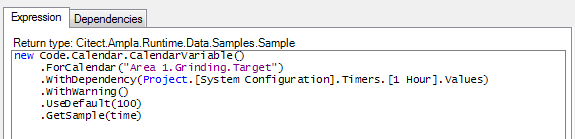
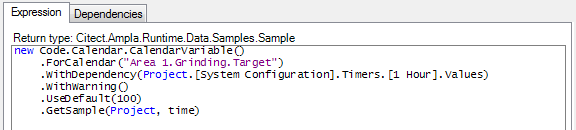
Fixed bug #2 by adding Ampla 6.1 code.

Changed region(s): [[0.0, 0.0, 1.0, 1.0]]

diff --git a/Calendar/CalendarVariable.cs b/Calendar/CalendarVariable.cs
@@ -1,6 +1,7 @@
 using System;
 using System.Diagnostics;
 using Citect.Ampla.Framework;
+using Citect.Ampla.General.Server.Calendar;
 using Citect.Ampla.Runtime.Data;
 using Citect.Ampla.Runtime.Data.Samples;
 using Citect.Ampla.Runtime.Data.Streams;
@@ -18,7 +19,7 @@ namespace Code.Calendar
         IFluentCalendar UseDefault(double defaultValue);
         IFluentCalendar WithDependency(ISampleStream sampleStream);
         IFluentCalendar WithWarning();
-        Sample GetSample(DateTime time);
+        Sample GetSample(Project project, DateTime time);
     }
 
     /// <summary>
@@ -101,16 +102,43 @@ namespace Code.Calendar
         }
 
         /// <summary>
-        ///     Gets a sample from calendar at the specified time
+        /// Gets the value from the calendar
         /// </summary>
-        /// <param name="time">Time for the sample</param>
+        /// <param name="project">The project.</param>
+        /// <param name="time">The time.</param>
         /// <returns></returns>
-        public Sample GetSample(DateTime time)
+        private object GetValue(Project project, DateTime time)
         {
-            object value =
-                useRate
+            // Ampla 5.2 (and earlier)
+            /* 
+            return useRate
                     ? Citect.Ampla.General.Server.Calendar.CalendarCache.GetValue(calendarName, time, period)
                     : Citect.Ampla.General.Server.Calendar.CalendarCache.GetValue(calendarName, time);
+            */
+              
+            // Ampla 6.0 (and later)
+            
+            ICalendarCache calendarCache = project.Resolve<ICalendarCache>();
+            
+            if (calendarCache != null)
+            {
+                return useRate
+                           ? calendarCache.GetValue(calendarName, time, period)
+                           : calendarCache.GetValue(calendarName, time);
+            }
+            
+            return null;
+        }
+
+        /// <summary>
+        ///     Gets a sample from calendar at the specified time
+        /// </summary>
+        /// <param name="project"></param>
+        /// <param name="time">Time for the sample</param>
+        /// <returns></returns>
+        public Sample GetSample(Project project, DateTime time)
+        {
+            object value = GetValue(project, time);
 
             if (value == null || value is DBNull)
             {

diff --git a/Calendar/README.md b/Calendar/README.md
@@ -35,7 +35,7 @@ new Code.Calendar.CalendarVariable()
 	.ForCalendar("Area 1.Grinding.Target")
 	.WithDependency(Project.[System Configuration].Times.[1 Hour].Values)
 	.WithWarning()
-	.GetSample(time)
+	.GetSample(Project, time)
 	)
 ```
 
@@ -63,7 +63,7 @@ new Code.Calendar.CalendarVariable()
 	.ForCalendar("Area 1.Grinding.Target")
 	.WithDependency(Project.[System Configuration].Timers.[1 Hour].Values)
 	.UseDefault(100)
-	.GetSample(time)
+	.GetSample(Project, time)
 ```
 
 ###```.ForItem(item) ```###
@@ -74,7 +74,7 @@ new Code.Calendar.CalendarVariable()
 	.ForItem(item)
 	.WithDependency(Project.[System Configuration].Timers.[1 Hour].Values)
 	.UseDefault(100)
-	.GetSample(time)
+	.GetSample(Project, time)
 ```
 
 ###```.WithDepenency(SampleStream) ```###
@@ -87,7 +87,7 @@ new Code.Calendar.CalendarVariable()
 	.ForCalendar("Area 1.Grinding.Target")
 	.WithDependency(Project.[System Configuration].Timers.[1 Hour].Values)
 	.UseDefault(100)
-	.GetSample(time)
+	.GetSample(Project, time)
 ```
 
 The dependency will be automatically configured 
@@ -103,7 +103,7 @@ new Code.Calendar.CalendarVariable()
 	.ForCalendar("Area 1.Grinding.Target")
 	.WithDependency(Project.[System Configuration].Timers.[1 Hour].Values)
 	.UseDefault(100)
-	.GetSample(time)
+	.GetSample(Project, time)
 ```
 
 If there is no calendar configured for the value and there is no default, then a sample with ```Quality.Bad``` will be used.
@@ -118,7 +118,7 @@ new Code.Calendar.CalendarVariable()
 	.WithDependency(Project.[System Configuration].Timers.[1 Hour].Values)
 	.WithWarning()
 	.UseDefault(100)
-	.GetSample(time)
+	.GetSample(Project, time)
 ```
 
 If there is no calendar configured for the value then a message will be written.
